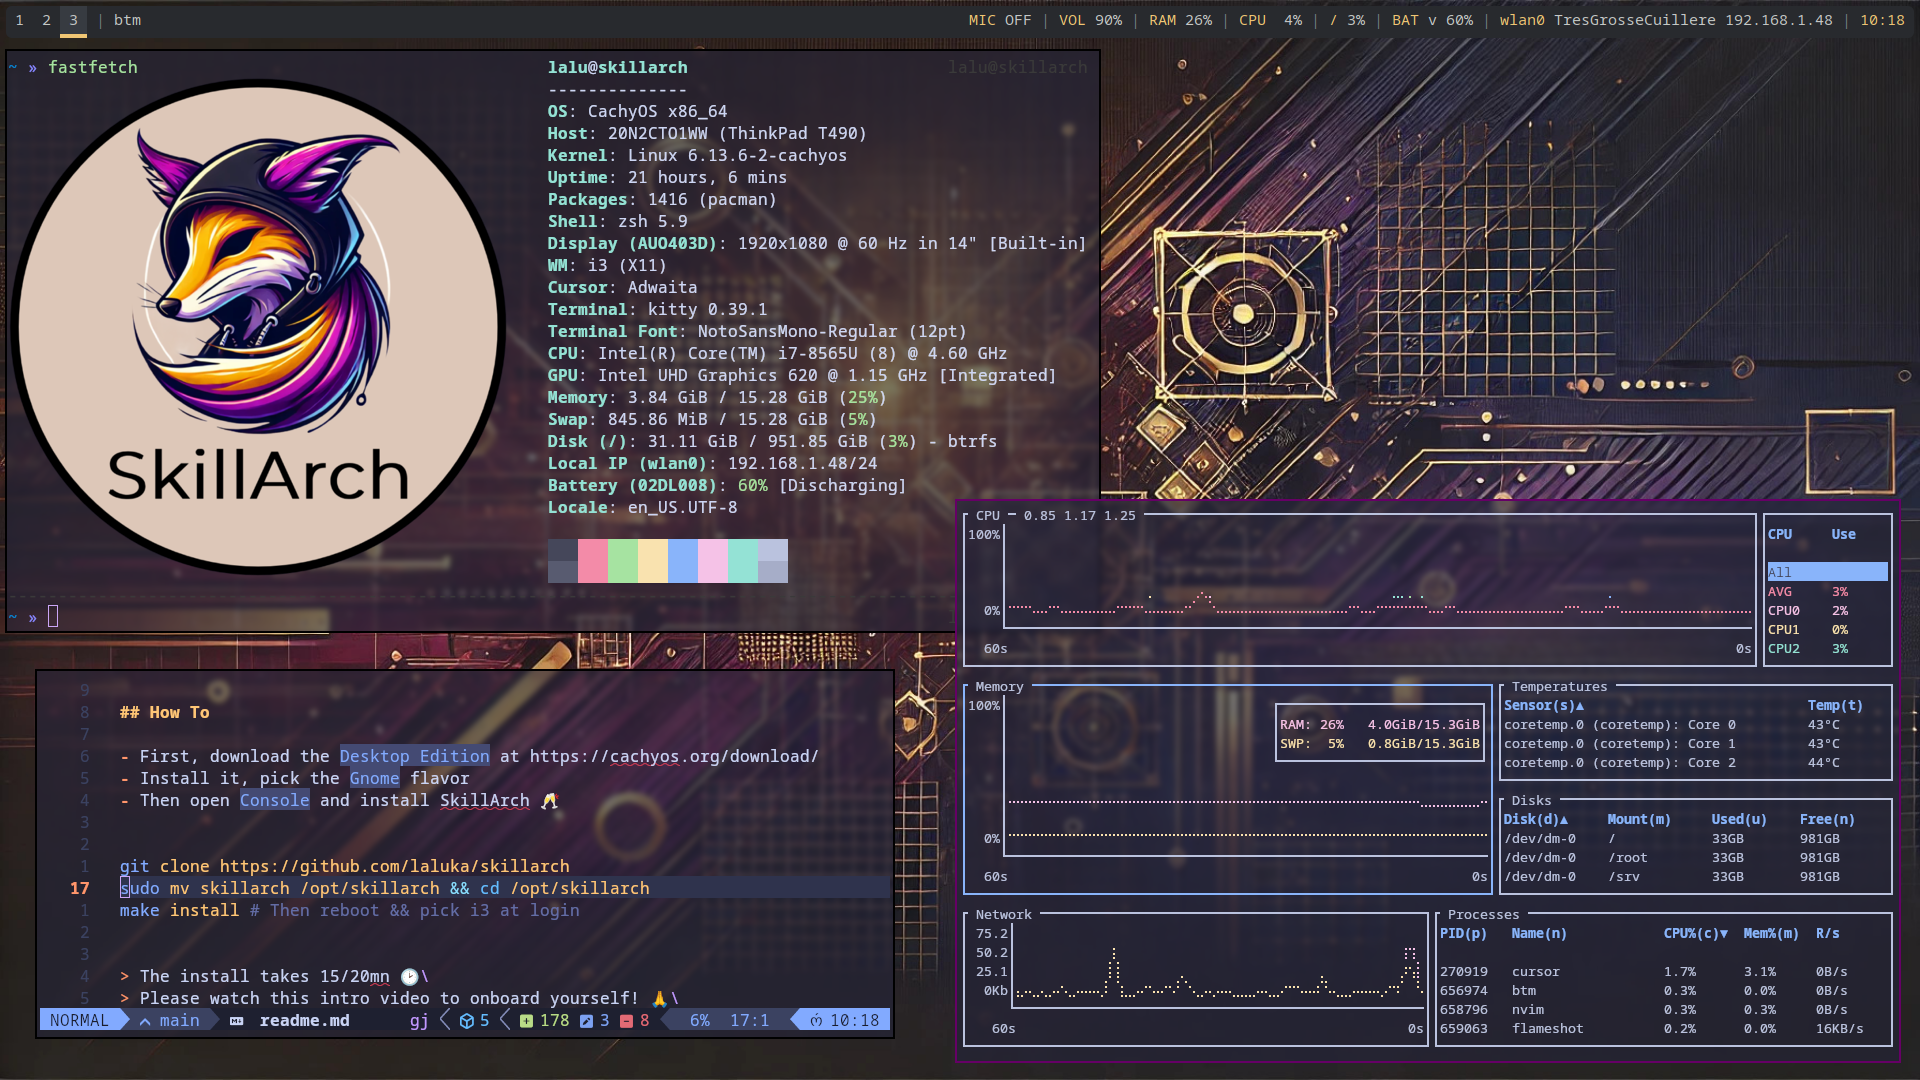
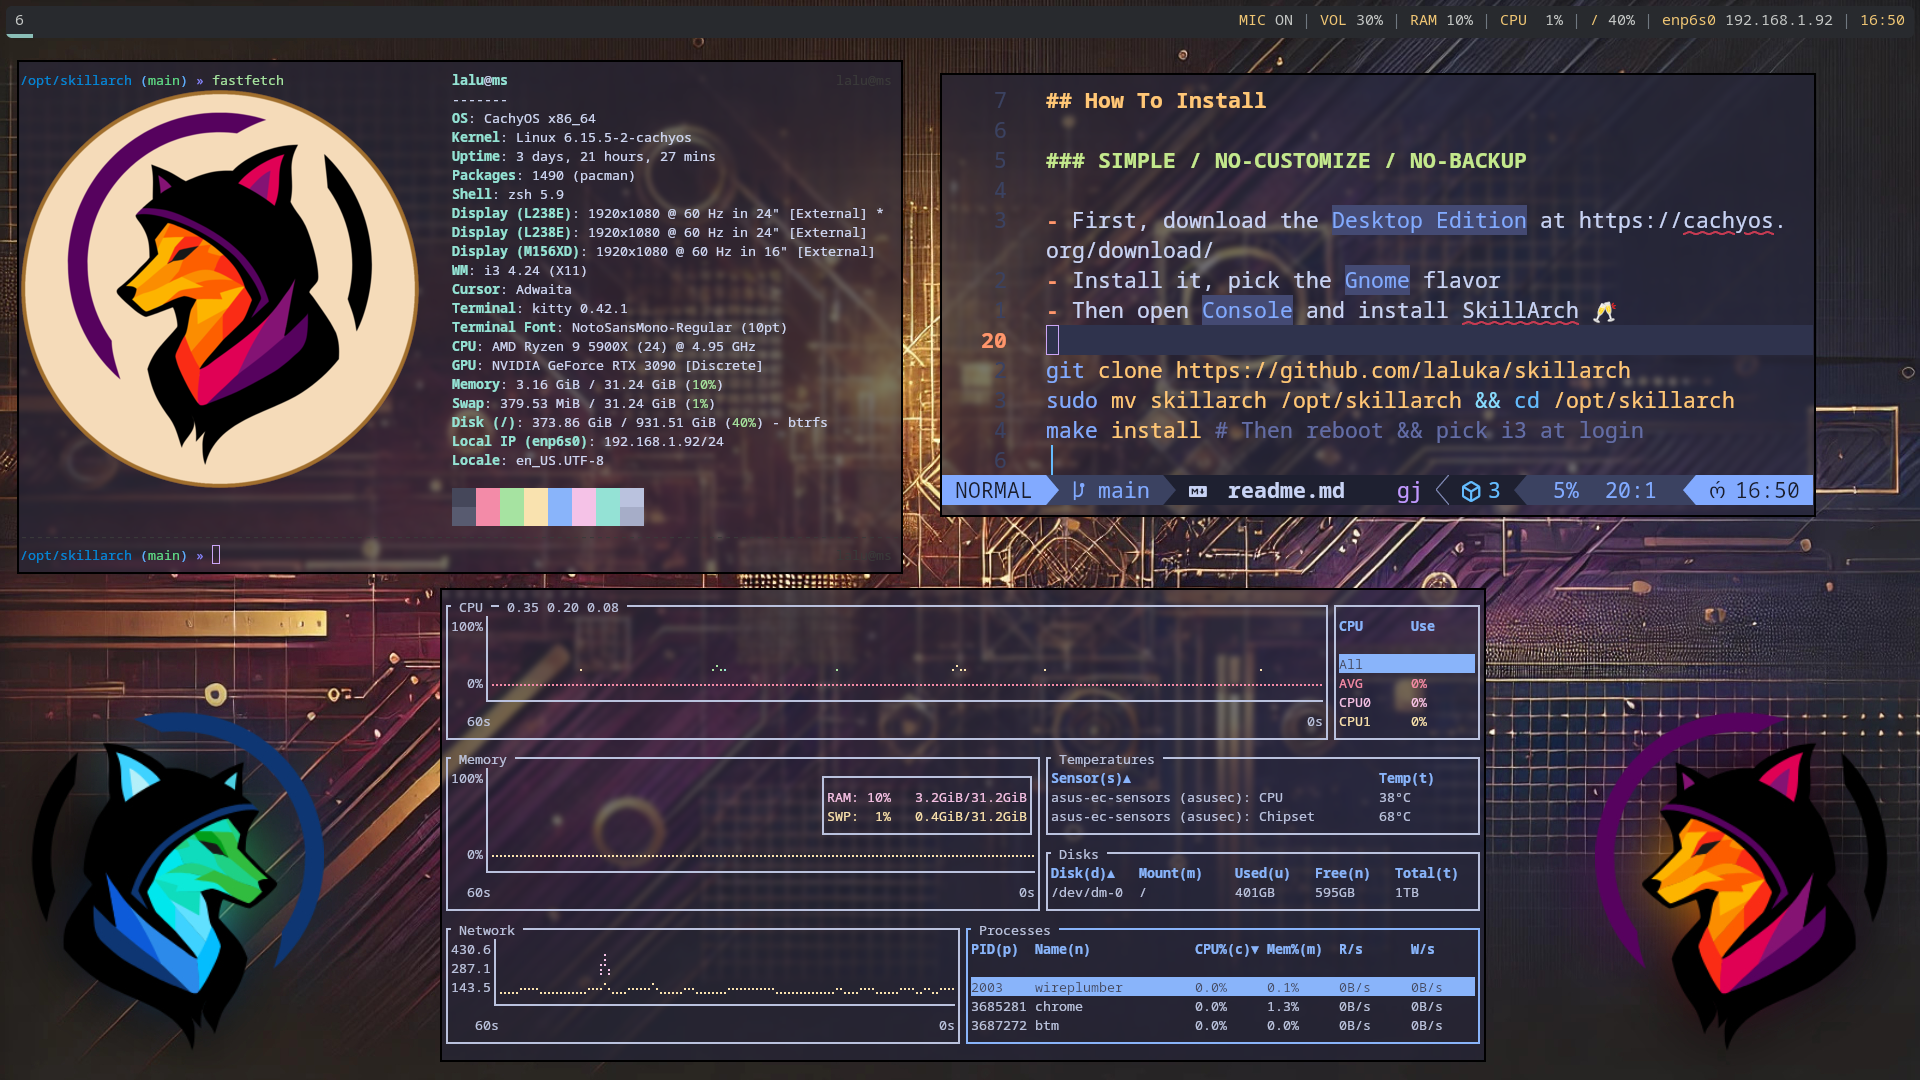
update bg, fix readme

diff --git a/readme.md b/readme.md
@@ -1,8 +1,8 @@
 # SkillArch - [![Security Checks & Docker Builds](https://github.com/laluka/skillarch/actions/workflows/cicd.yml/badge.svg)](https://github.com/laluka/skillarch/actions/workflows/cicd.yml)
 
-<img src='assets/skillarch-full.png' width='250'>
+<img src='assets/logo-round-cold.png' width='250'><img src='assets/logo-round-hot.png' width='250'>
 
-> The lite/full install takes 20/30 minutes 🕑\
+> The lite/full install takes 10/20 minutes 🕑\
 > Please watch this intro video to onboard yourself! 🙏\
 > ➡ TBD ⬅
 
